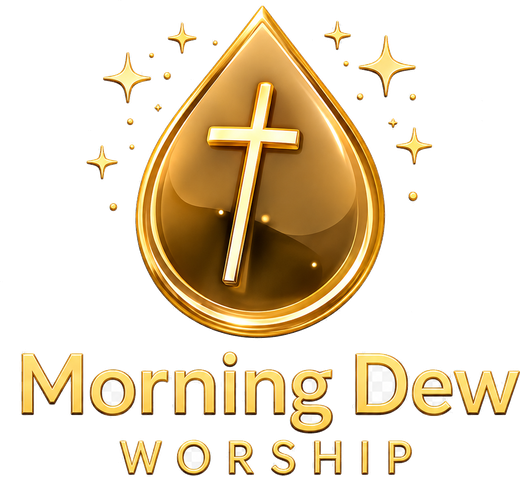
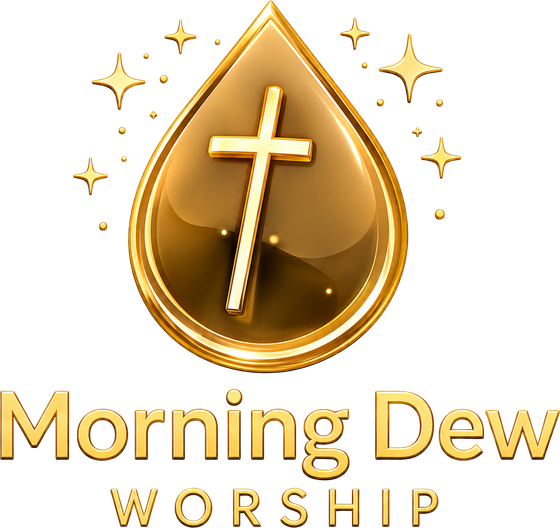
푸터 로고를 깔끔한 투명 PNG 원본으로 교체(+캐시버전 v2)

diff --git a/index.html b/index.html
@@ -471,7 +471,7 @@ function render(){
     <p style="margin:0 0 16px; font-size:12px; color:#7E7860; letter-spacing:1px;">${esc(t.footDate)}</p>
     <p style="margin:0 0 14px; font-size:12.5px; color:#9A916F; line-height:1.9;">${esc(t.footHostPre)}<strong style="color:#C9A35E;">${esc(t.footHost)}</strong><br>${esc(t.footSponsorPre)}<strong style="color:#C9A35E;">${esc(t.footSponsor)}</strong></p>
     <div style="margin:0 auto 18px; display:flex; align-items:center; justify-content:center;">
-      <img src="images/morningdew-gold.png" alt="${esc(t.footSponsor)}" width="150" style="width:150px; height:auto; display:block;" loading="lazy">
+      <img src="images/morningdew-gold.png?v=2" alt="${esc(t.footSponsor)}" width="150" style="width:150px; height:auto; display:block;" loading="lazy">
     </div>
     <p style="margin:0; font-size:12px; color:#6E6A57;">${esc(t.footContact)}</p>
   </footer>`;